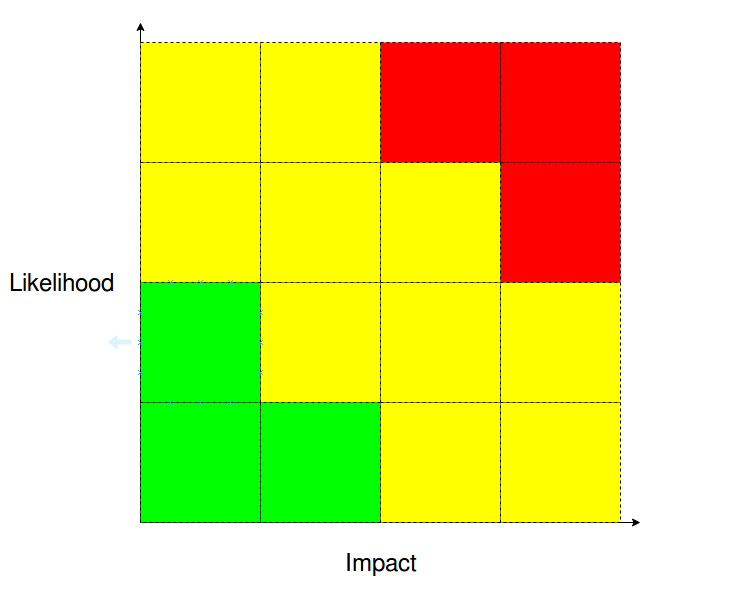
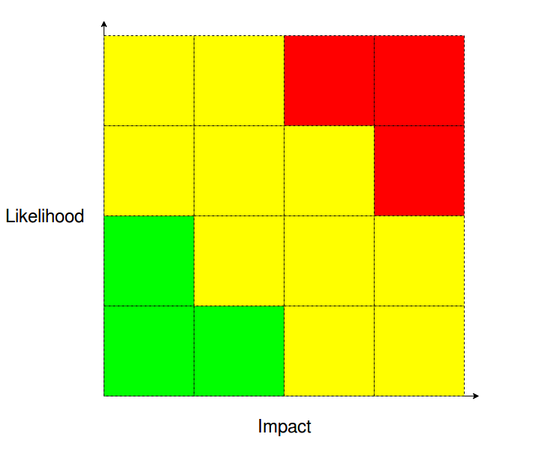
resized likelihoodImpactMap image again

Changed region(s): [[0.1526, 0.0308, 0.8851, 0.8923], [0.0, 0.4308, 0.1526, 0.4923], [0.4578, 0.9231, 0.5799, 0.9538]]

diff --git a/PITCHME.md b/PITCHME.md
@@ -89,7 +89,7 @@ What was learnt from those previous failures?
 
 ### Likelihood-Impact Map
 
-<img src="assets/images/likelihoodImpactMap_75.png" style="float: center"/>
+<img src="assets/images/likelihoodImpactMap.png" style="float: center"/>
 
 ---
 
